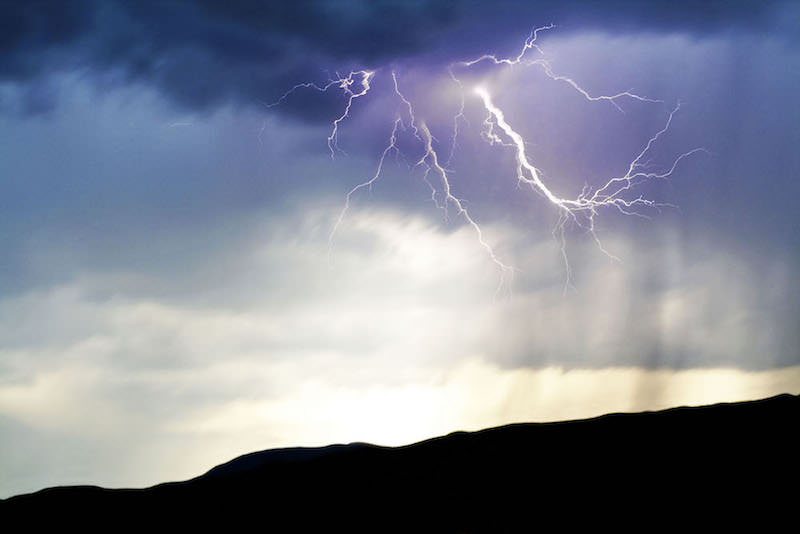
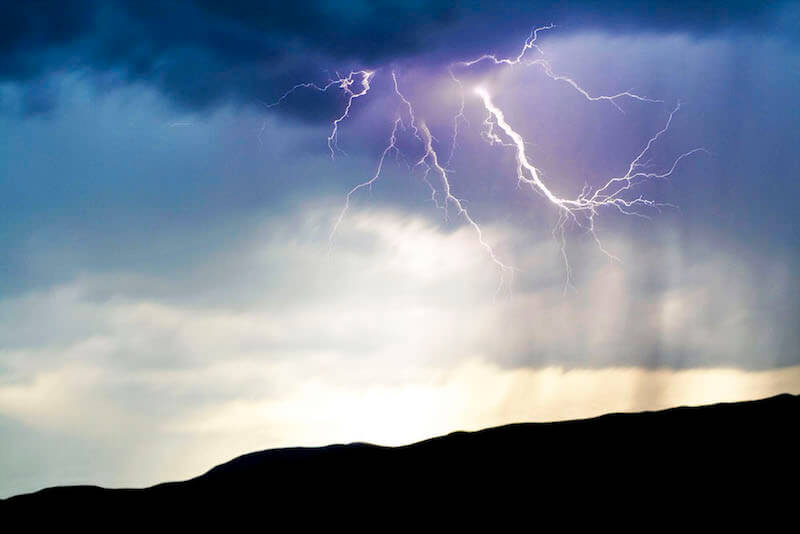
Adjust transition timing and optimize photos

Changed region(s): [[0.0, 0.0, 1.0, 0.4494], [0.2188, 0.3296, 0.25, 0.3596]]

diff --git a/styles/css/main-processed.css b/styles/css/main-processed.css
@@ -158,20 +158,20 @@ div#root .image-view__image-container {
   max-width: 720px;
 }
 div#root .image-view__image-container.selected {
-  -webkit-transition: opacity .5s ease, -webkit-transform 1.2s;
-  transition: opacity .5s ease, -webkit-transform 1.2s;
-  transition: opacity .5s ease, transform 1.2s;
-  transition: opacity .5s ease, transform 1.2s, -webkit-transform 1.2s;
+  -webkit-transition: opacity 0.5s ease, -webkit-transform 1s;
+  transition: opacity 0.5s ease, -webkit-transform 1s;
+  transition: opacity 0.5s ease, transform 1s;
+  transition: opacity 0.5s ease, transform 1s, -webkit-transform 1s;
   opacity: 1;
   -webkit-transform: translateX(-50%) scale(1) translateY(-50%);
           transform: translateX(-50%) scale(1) translateY(-50%);
   z-index: 20;
 }
 div#root .image-view__image-container.next-image {
-  -webkit-transition: opacity 1.2s, -webkit-transform 1.2s;
-  transition: opacity 1.2s, -webkit-transform 1.2s;
-  transition: opacity 1.2s, transform 1.2s;
-  transition: opacity 1.2s, transform 1.2s, -webkit-transform 1.2s;
+  -webkit-transition: opacity 1.2s, -webkit-transform 1s;
+  transition: opacity 1.2s, -webkit-transform 1s;
+  transition: opacity 1.2s, transform 1s;
+  transition: opacity 1.2s, transform 1s, -webkit-transform 1s;
   opacity: 0.3;
   -webkit-transform: translateX(60%) scale(0.6) translateY(-80%);
           transform: translateX(60%) scale(0.6) translateY(-80%);
@@ -183,10 +183,10 @@ div#root .image-view__image-container.next-image {
   }
 }
 div#root .image-view__image-container.previous-image {
-  -webkit-transition: opacity 1.2s, -webkit-transform 1.2s;
-  transition: opacity 1.2s, -webkit-transform 1.2s;
-  transition: opacity 1.2s, transform 1.2s;
-  transition: opacity 1.2s, transform 1.2s, -webkit-transform 1.2s;
+  -webkit-transition: opacity 1.2s, -webkit-transform 1s;
+  transition: opacity 1.2s, -webkit-transform 1s;
+  transition: opacity 1.2s, transform 1s;
+  transition: opacity 1.2s, transform 1s, -webkit-transform 1s;
   opacity: 0.3;
   -webkit-transform: translateX(-160%) scale(0.6) translateY(-80%);
           transform: translateX(-160%) scale(0.6) translateY(-80%);
@@ -534,4 +534,4 @@ i.fa.fa-angle-left {
   z-index: -10;
 }
 
[2 lines of base64/hex data omitted]

diff --git a/styles/scss/_general.scss b/styles/scss/_general.scss
@@ -1,5 +1,7 @@
 //
 
+$photo-movement-speed: 1s;
+
 //title styles
 .title-container {
     position: relative;
@@ -118,7 +120,7 @@ div#root {
 
         //gallery animation styles
         &.selected {
-            transition: opacity .5s ease, transform 1.2s;
+            transition: opacity .5s ease, transform $photo-movement-speed;
             opacity: 1;
             // transform: translateX(0) scale(1);
             transform: translateX(-50%) scale(1) translateY(-50%);
@@ -126,7 +128,7 @@ div#root {
         }
 
         &.next-image {
-            transition: opacity 1.2s, transform 1.2s;
+            transition: opacity 1.2s, transform $photo-movement-speed;
             opacity: 0.3;
             transform: translateX(60%) scale(0.6) translateY(-80%);
 
@@ -136,7 +138,7 @@ div#root {
         }
 
         &.previous-image {
-            transition: opacity 1.2s, transform 1.2s;
+            transition: opacity 1.2s, transform $photo-movement-speed;
             opacity: 0.3;
             transform: translateX(-160%) scale(0.6) translateY(-80%);
 

diff --git a/styles/css/main.css b/styles/css/main.css
@@ -147,13 +147,13 @@ div#root .image-view__image-container {
   max-width: 720px;
 }
 div#root .image-view__image-container.selected {
-  transition: opacity .5s ease, transform 1.2s;
+  transition: opacity 0.5s ease, transform 1s;
   opacity: 1;
   transform: translateX(-50%) scale(1) translateY(-50%);
   z-index: 20;
 }
 div#root .image-view__image-container.next-image {
-  transition: opacity 1.2s, transform 1.2s;
+  transition: opacity 1.2s, transform 1s;
   opacity: 0.3;
   transform: translateX(60%) scale(0.6) translateY(-80%);
 }
@@ -163,7 +163,7 @@ div#root .image-view__image-container.next-image {
   }
 }
 div#root .image-view__image-container.previous-image {
-  transition: opacity 1.2s, transform 1.2s;
+  transition: opacity 1.2s, transform 1s;
   opacity: 0.3;
   transform: translateX(-160%) scale(0.6) translateY(-80%);
 }
